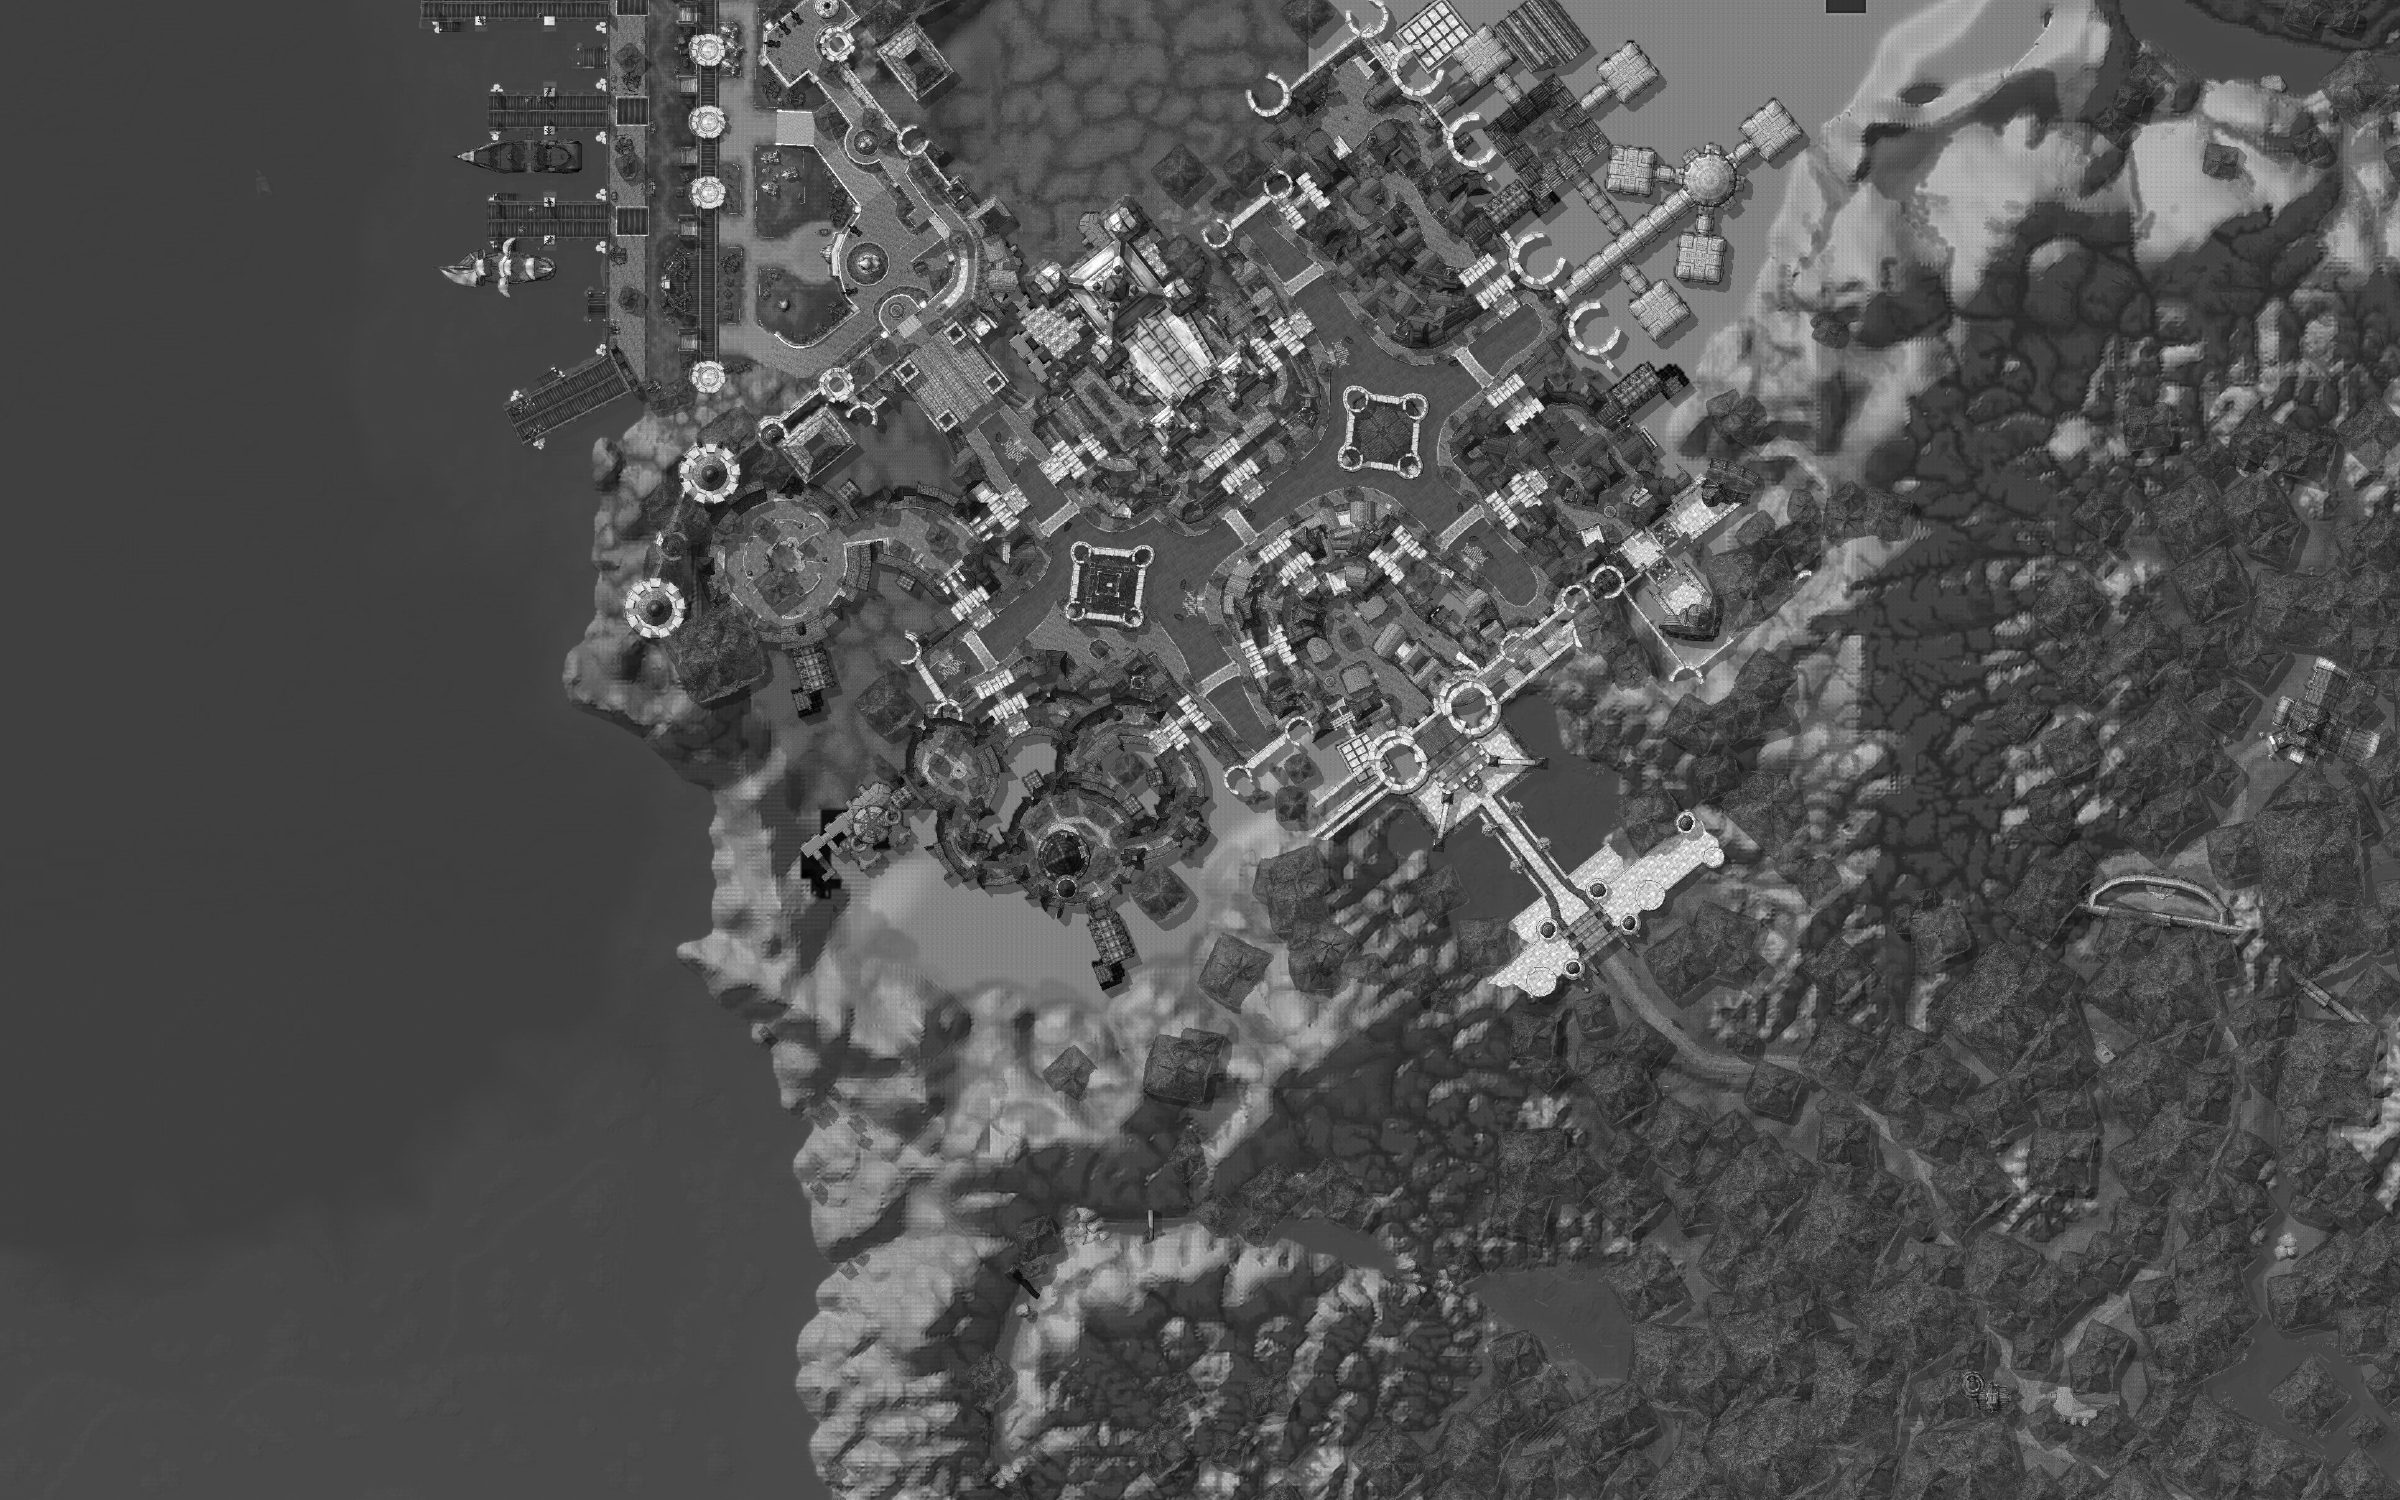
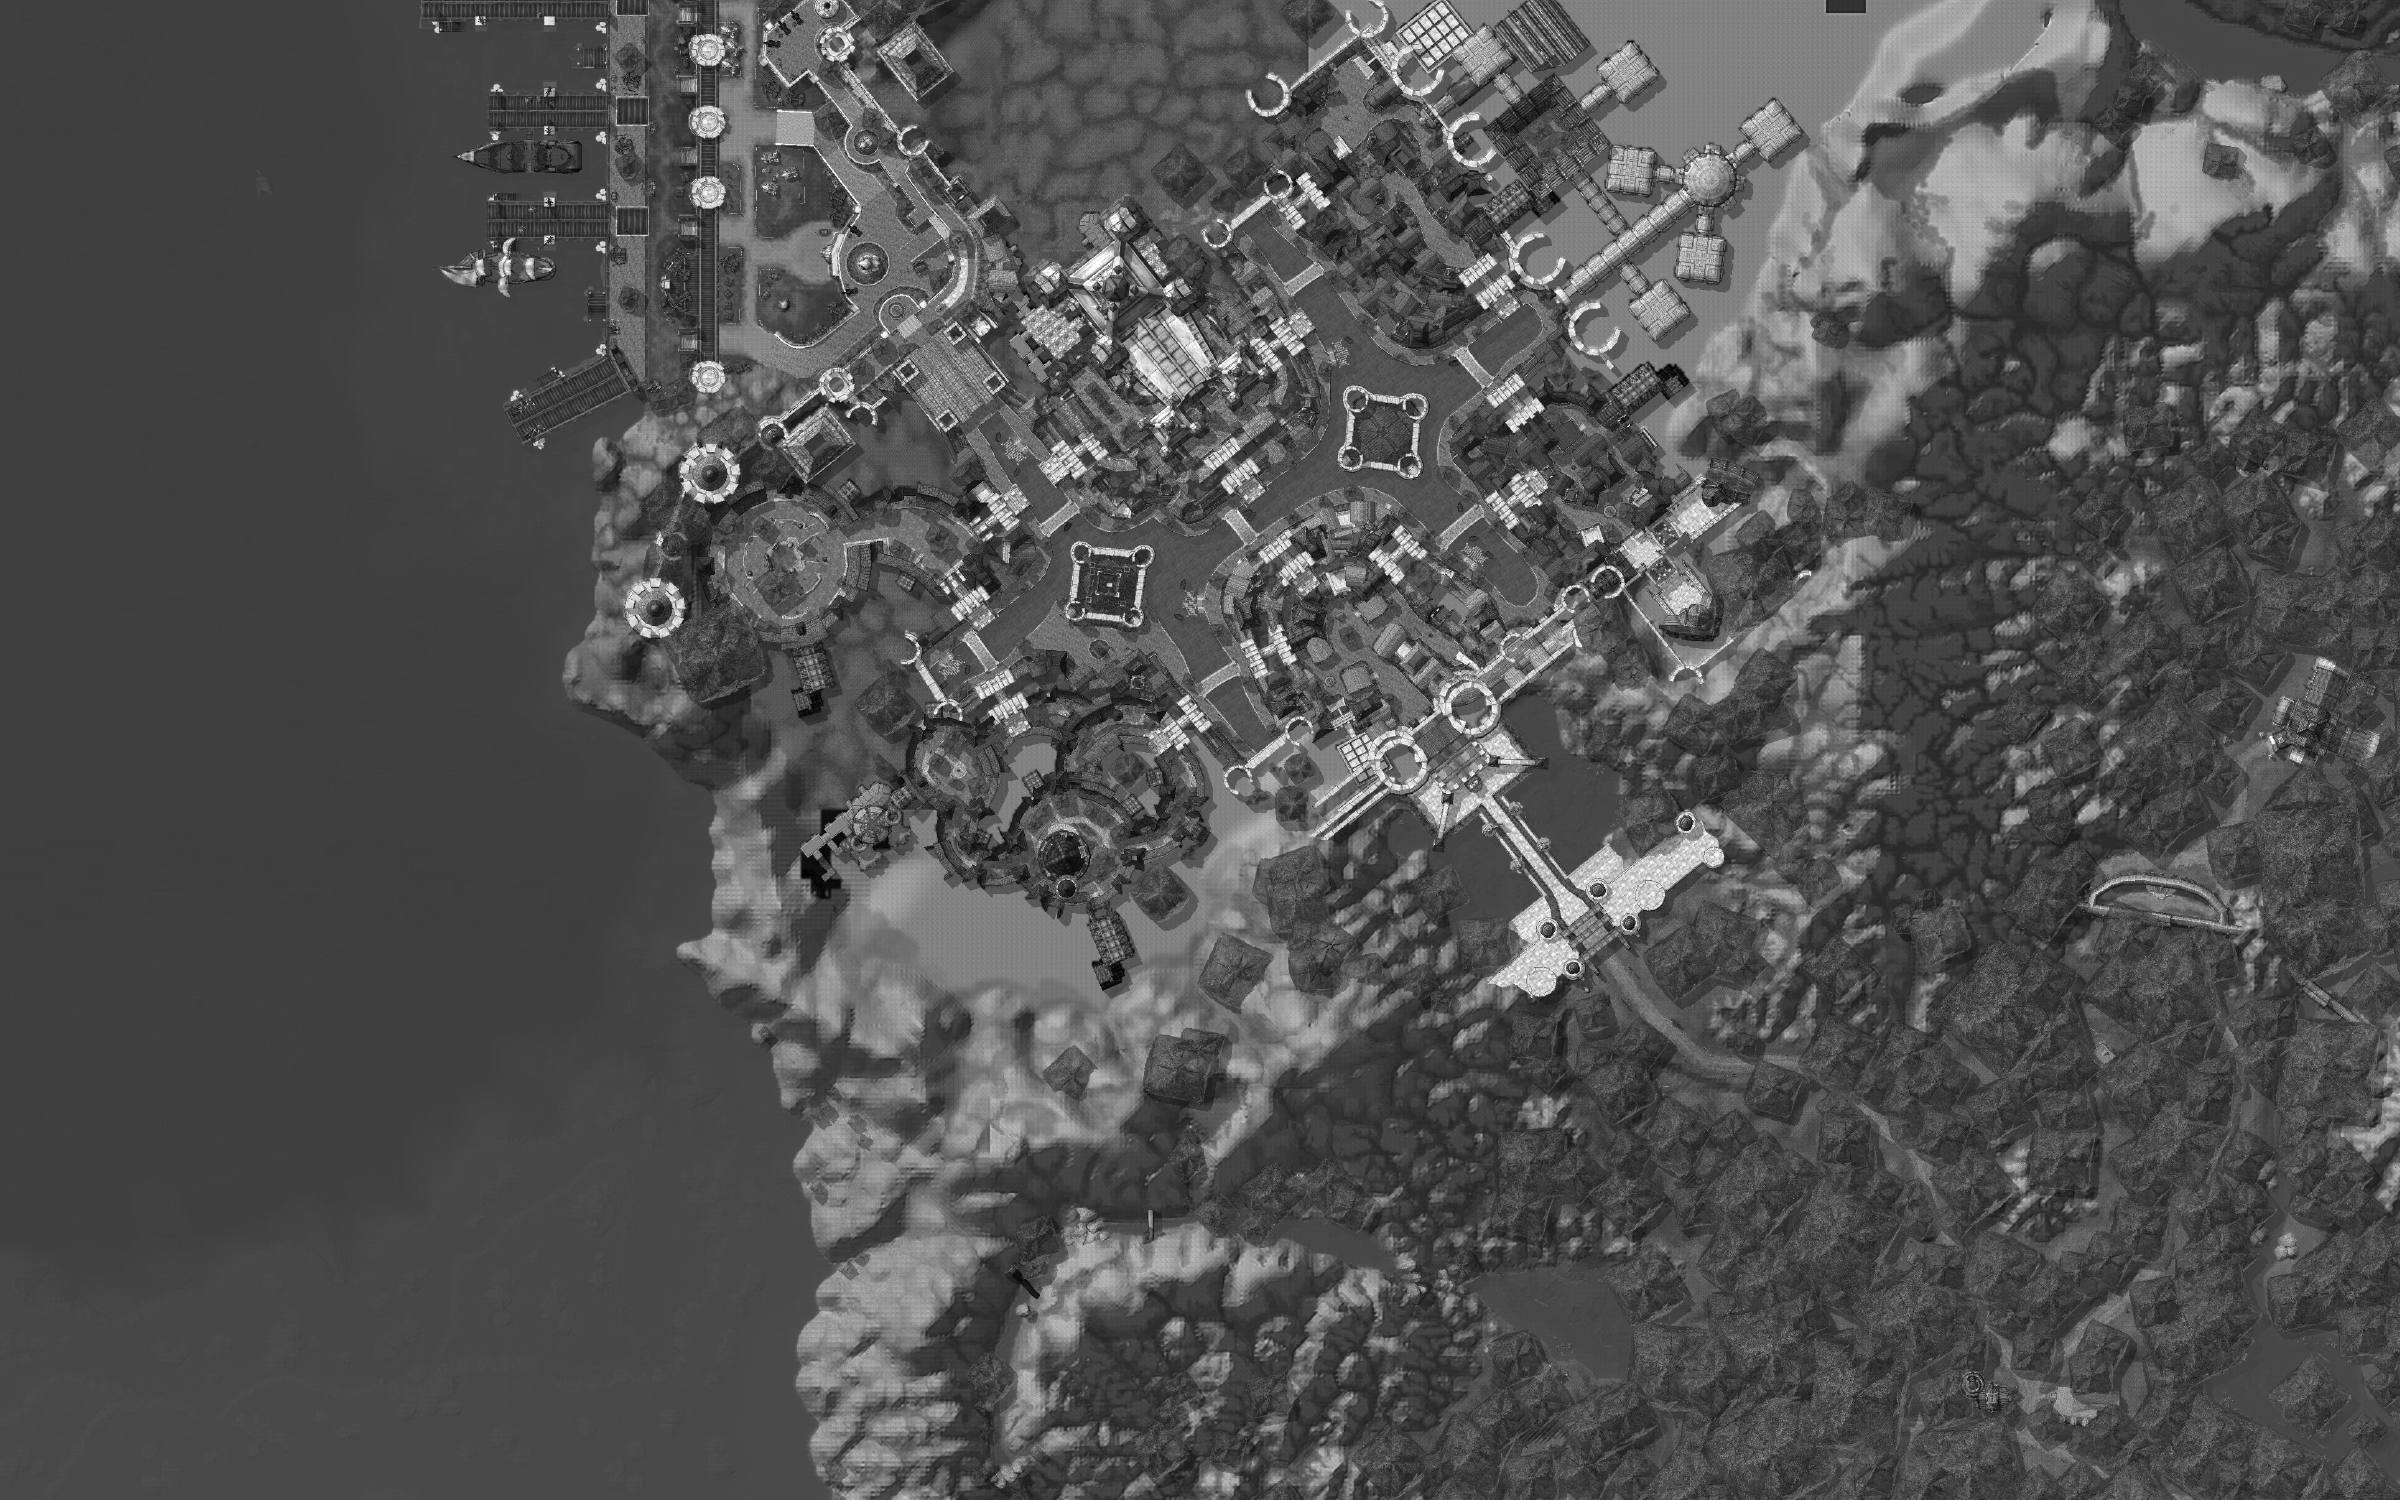
site: maps as WebP at build time, half size on the page and full size only when enlarged; publish saves them at JPEG quality 72
Claude-Session: https://claude.ai/code/session_01BHLzXcvf7PwDXb153kCeEr

diff --git a/site/src/scripts/interact.ts b/site/src/scripts/interact.ts
@@ -97,6 +97,7 @@ document.addEventListener('click', e => {
   close.setAttribute('aria-label', 'Close');
   close.textContent = '✕';
   dialog.replaceChildren(close, fig);
+  for (const im of fig.querySelectorAll('image[data-full]')) im.setAttribute('href', im.getAttribute('data-full')!); // the sharp one
   dialog.showModal();
   for (const svg of fig.querySelectorAll<SVGSVGElement>('svg[data-zoom]')) {
     zoomable(svg);

diff --git a/azbench/publish_record.go b/azbench/publish_record.go
@@ -347,7 +347,7 @@ func writeJPEG(f string, img image.Image) error {
 		return err
 	}
 	var b bytes.Buffer
-	if err := jpeg.Encode(&b, img, &jpeg.Options{Quality: 82}); err != nil {
+	if err := jpeg.Encode(&b, img, &jpeg.Options{Quality: 72}); err != nil {
 		return err
 	}
 	return os.WriteFile(f, b.Bytes(), 0o644)
